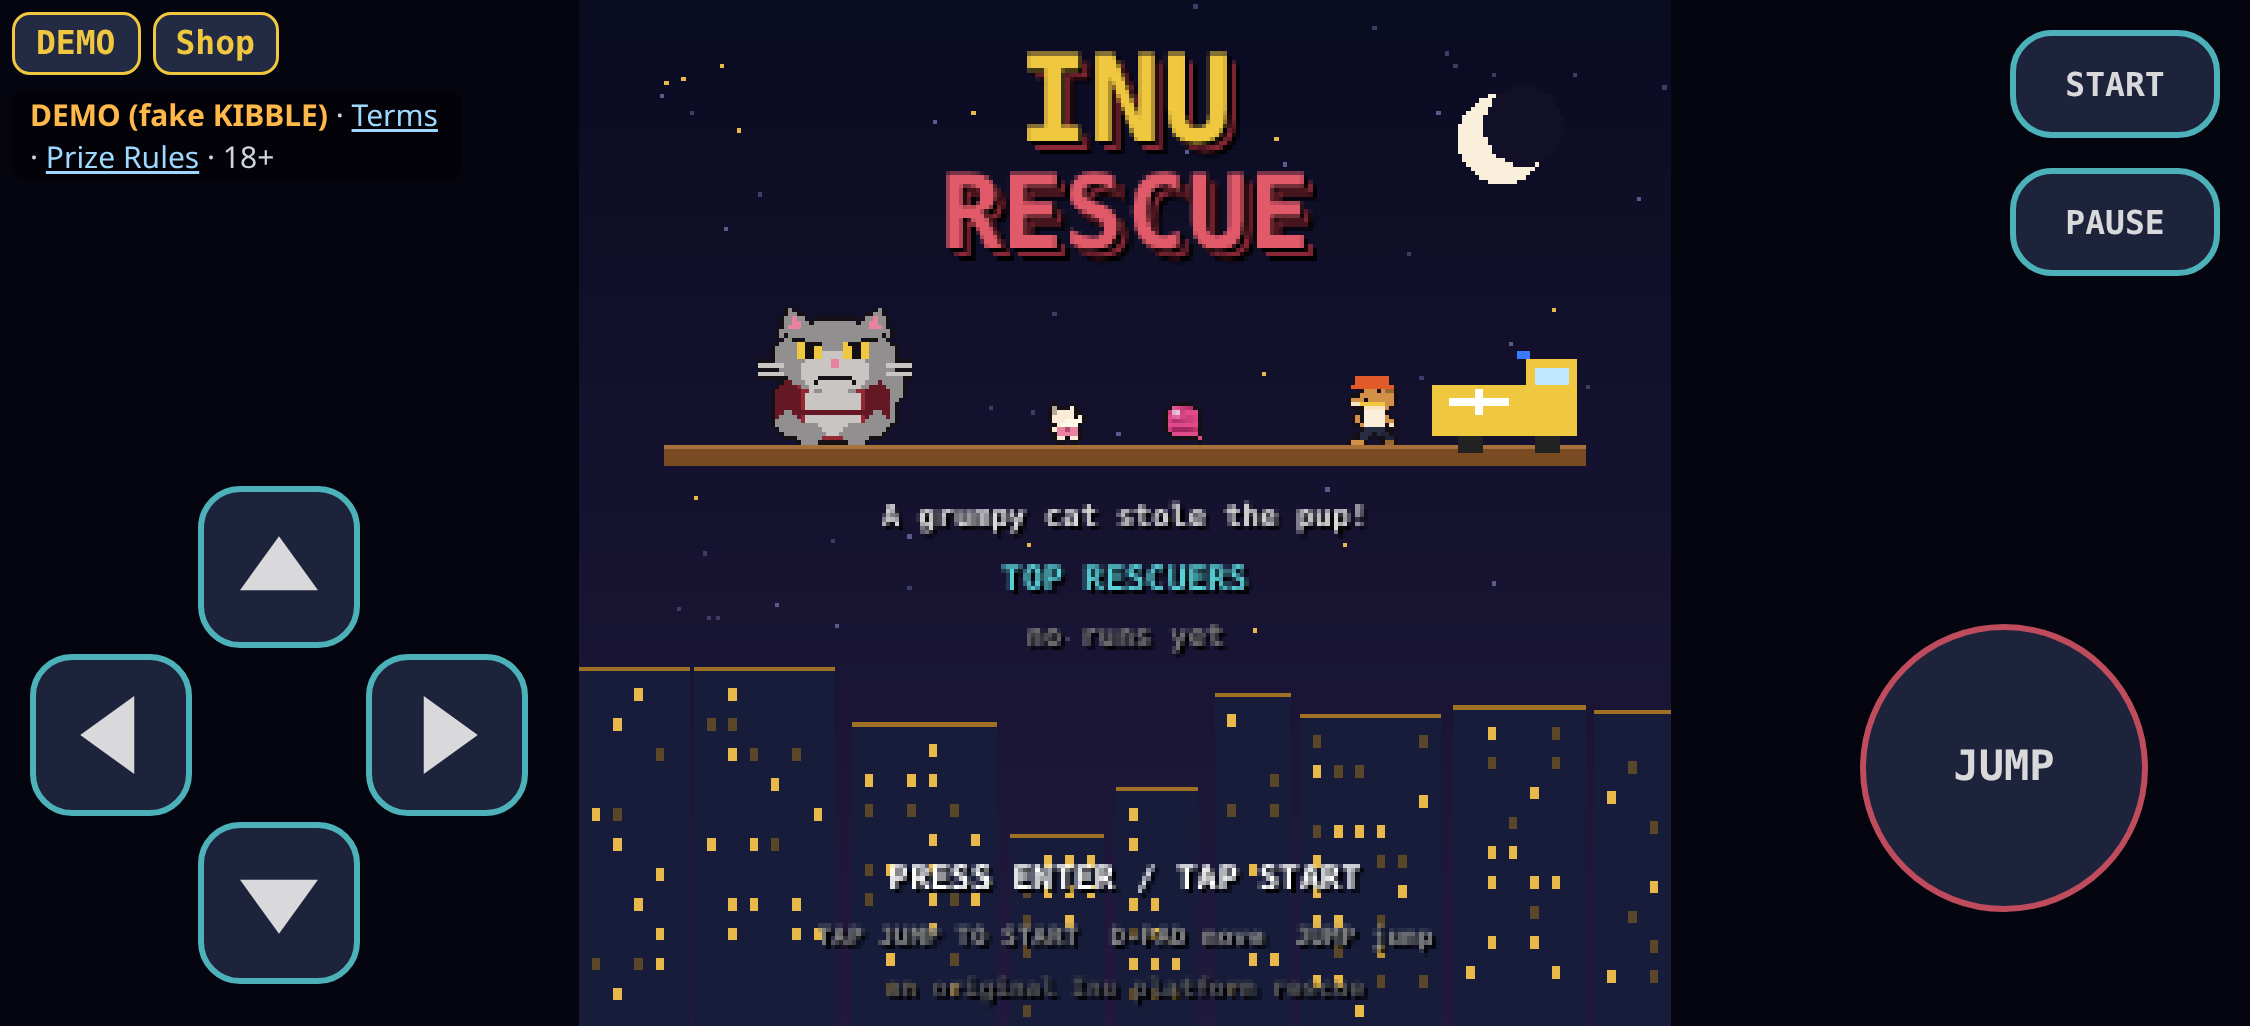
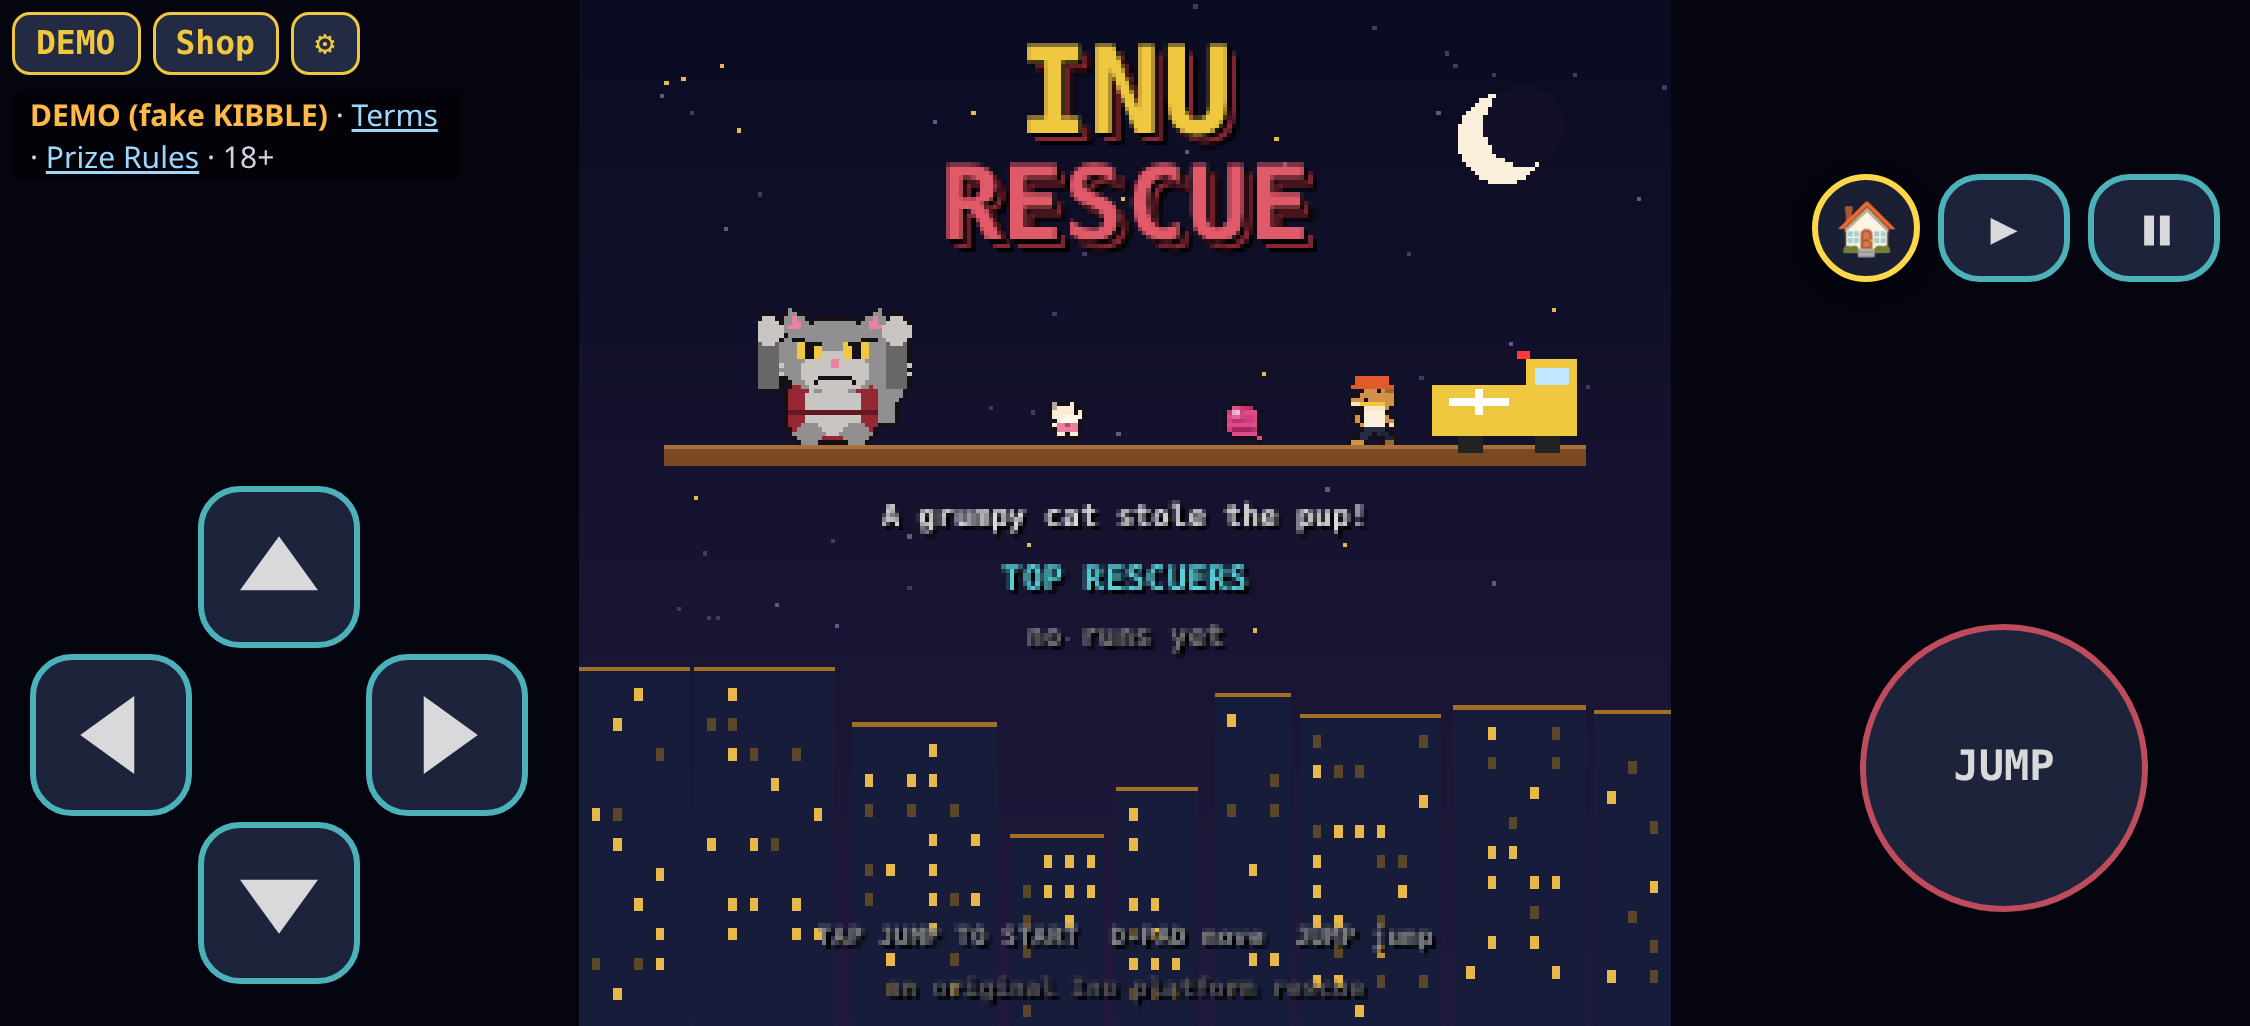
Tidy: sound settings (mute/volume) in ⚙ panel, joystick toggle touch-only; compact right gutter in phone landscape; kibble-proof for live $KIBBLE; deterministic vsync test
- settings: muted/volume fields (defaults unchanged: sound on, 100%), clamped; saved in the same cloud-synced key
- audio: master gain + setVolume; M key now persists mute
- landscape: wallet pill on top, one row with home + START/PAUSE icons, JUMP below (scripts/gutter.mjs: no overlaps at 667x375/750x342/844x390/740x360)
- kibble-proof: live wording, Buy without wallet never pays (desktop prompt / phone Phantom deep link), door wallet != session
- vsync test: seeded mocked clock across 25 seeds + worst case; adds 75/90/120Hz speed guard
- scripts/settings-shot.mjs

diff --git a/src/main.js b/src/main.js
@@ -1,6 +1,6 @@
 import { createGame, step, progress, W, H } from './engine.js';
 import { drawGame, drawTitle, text } from './render.js';
-import { initAudio, play, setMuted, isMuted } from './audio.js';
+import { initAudio, play, setMuted, isMuted, setVolume } from './audio.js';
 import * as KB from './kibble.js';
 import { loadSettings, saveSettings, stickToKeys, knobOffset } from './settings.js';
 import { loadLB, saveLB, addEntry, makeEntry, qualifiesLB, describe, formatTime } from './leaderboard.js';
@@ -27,7 +27,7 @@ addEventListener('keydown', e => {
   if (e.code === 'Space' || e.code === 'KeyZ' || e.code === 'KeyX') { if (!e.repeat) jumpEdge = true; e.preventDefault(); }
   if (e.code === 'Enter') startEdge = true;
   if ((e.code === 'KeyP' || e.code === 'Escape') && app.scene === 'game') app.paused = !app.paused;
-  if (e.code === 'KeyM') setMuted(!isMuted());
+  if (e.code === 'KeyM') setSound({ muted: !isMuted() });
   if (app.scene === 'entry') entryKey(e.code);
 });
 addEventListener('keyup', e => { if (KEYMAP[e.code]) keys[KEYMAP[e.code]] = false; });
@@ -75,7 +75,10 @@ pad.addEventListener('pointerleave', e => { if (!pad.hasPointerCapture?.(e.point
 // JUMP/START/PAUSE buttons work at the same time (multi-touch). The D-pad path above is untouched when it's off.
 const stick = document.getElementById('stick'), knob = stick.querySelector('.knob');
 let settings = loadSettings(localStorage), stickId = null; const stickKeys = { left: false, right: false, up: false, down: false };
-function applySettings() { root.classList.toggle('joy', settings.joystick); const cb = document.getElementById('set-joy'); if (cb) cb.checked = settings.joystick; stickEnd(); }
+function applySettings() { root.classList.toggle('joy', settings.joystick); const $ = id => document.getElementById(id);
+  $('set-joy').checked = settings.joystick; $('set-mute').checked = settings.muted; $('set-vol').value = settings.volume; $('set-vol-v').textContent = settings.volume + '%';
+  setMuted(settings.muted); setVolume(settings.volume / 100); stickEnd(); }
+function setSound(ch) { settings = { ...settings, ...ch }; saveSettings(localStorage, settings); applySettings(); KB.K.walletUi?.save?.(); }
 function stickSet(k) {
   for (const d of ['left', 'right', 'up', 'down']) { if (k[d] === stickKeys[d]) continue; stickKeys[d] = k[d]; keys[d] = k[d];
     if (k[d] && app.scene === 'entry') entryKey({ left: 'ArrowLeft', right: 'ArrowRight', up: 'ArrowUp', down: 'ArrowDown' }[d]); }
@@ -95,6 +98,8 @@ addEventListener('blur', stickEnd); document.addEventListener('visibilitychange'
 const setBox = document.getElementById('settings'); let pausedBySettings = false;
 document.getElementById('k-set').onclick = () => { if (app.scene === 'game' && !app.paused) { app.paused = true; pausedBySettings = true; } applySettings(); setBox.hidden = false; };
 document.getElementById('set-joy').onchange = e => { settings = { ...settings, joystick: e.target.checked }; saveSettings(localStorage, settings); applySettings(); KB.K.walletUi?.save?.(); };
+document.getElementById('set-mute').onchange = e => setSound({ muted: e.target.checked });
+document.getElementById('set-vol').oninput = e => { setSound({ volume: +e.target.value, muted: false }); initAudio(); play('toy'); };
 document.getElementById('set-close').onclick = () => { setBox.hidden = true; if (pausedBySettings) { app.paused = false; pausedBySettings = false; } };
 for (const t of ['pointerdown', 'touchstart']) setBox.addEventListener(t, e => e.stopPropagation(), { passive: true });
 applySettings(); app.settings = () => settings;

diff --git a/src/audio.js b/src/audio.js
@@ -1,16 +1,17 @@
 // Tiny WebAudio sfx synth (no assets).
-let ac = null, muted = false;
-export function initAudio() { try { ac = ac || new (window.AudioContext || window.webkitAudioContext)(); if (ac.state === 'suspended' && !document.hidden) ac.resume(); } catch { ac = null; } } // one context, resumed on gesture
+let ac = null, muted = false, master = null, volume = 1; // master gain = settings volume (0..1)
+export function initAudio() { try { if (!ac) { ac = new (window.AudioContext || window.webkitAudioContext)(); master = ac.createGain(); master.gain.value = volume; master.connect(ac.destination); } if (ac.state === 'suspended' && !document.hidden) ac.resume(); } catch { ac = null; } } // one context, resumed on gesture
 if (typeof document !== 'undefined') { document.addEventListener('visibilitychange', () => { if (!ac) return; if (document.hidden) ac.suspend?.(); else ac.resume?.(); }); addEventListener('pagehide', () => ac?.suspend?.()); }
 // one-shot limiter: per-SFX cooldown + max concurrent voices (events fire per sim step; bursts of the same event must not stack)
 const CD = { land: 0.08, bounce: 0.06, tin: 0.06, flea: 0.08, ladderroll: 0.1, cathop: 0.08, score: 0.05 }, lastAt = {}; let ends = [];
 export const MAX_VOICES = 8;
 export function gate(name, now, cd = CD[name] ?? 0.04, dur = 0.3) { ends = ends.filter((t) => t > now); if (ends.length >= MAX_VOICES || now - (lastAt[name] ?? -1e9) < cd) return false; lastAt[name] = now; ends.push(now + dur); return true; }
-export function setMuted(m) { muted = m; } export function isMuted() { return muted; }
+export function setMuted(m) { muted = !!m; } export function isMuted() { return muted; }
+export function setVolume(v) { volume = Math.max(0, Math.min(1, +v || 0)); if (master) master.gain.value = volume; } export function getVolume() { return volume; }
 function tone(f0, f1, dur, type = 'square', vol = 0.08, delay = 0) {
   if (!ac || muted) return; const t = ac.currentTime + delay, o = ac.createOscillator(), g = ac.createGain();
   o.type = type; o.frequency.setValueAtTime(f0, t); o.frequency.exponentialRampToValueAtTime(Math.max(20, f1), t + dur);
-  g.gain.setValueAtTime(vol, t); g.gain.exponentialRampToValueAtTime(0.001, t + dur); o.connect(g); g.connect(ac.destination); o.start(t); o.stop(t + dur + 0.02);
+  g.gain.setValueAtTime(vol, t); g.gain.exponentialRampToValueAtTime(0.001, t + dur); o.connect(g); g.connect(master || ac.destination); o.start(t); o.stop(t + dur + 0.02);
 }
 const seq = (notes, step = 0.1, type = 'square') => notes.forEach((n, i) => tone(n, n, step * 0.9, type, 0.07, i * step));
 const SFX = {
@@ -23,4 +24,4 @@ const SFX = {
   clank: () => tone(700, 140, 0.14, 'sawtooth', 0.07), split: () => seq([660, 440], 0.05),
   hammerend: () => tone(400, 200, 0.1), checkpoint: () => seq([659, 988], 0.07), ladderroll: () => tone(160, 110, 0.08, 'triangle', 0.04),
 };
-export function play(ev) { const f = SFX[ev]; if (f && ac && !muted && gate(ev, ac.currentTime)) f(); }
+export function play(ev) { const f = SFX[ev]; if (f && ac && !muted && volume > 0 && gate(ev, ac.currentTime)) f(); }

diff --git a/style.css b/style.css
@@ -46,6 +46,15 @@ html.joy #stick{display:block}html.joy .dpad{display:none}
 #settings small{color:#aaa}#settings button{align-self:flex-end;background:#222a44;color:#f0c840;border:1px solid #f0c840;border-radius:6px;padding:5px 12px;font:bold 12px monospace}
 /* phone landscape: the shared wallet pill + home button (kibble-pay) stack in the right gutter, START/PAUSE sit below them
    (they used to cover START, so a START tap hit the home button and left the game) */
+
+/* settings: sound rows everywhere; joystick row only on touch devices (no touch pad on desktop) */
+html.notouch #settings .joyrow{display:none}
+#settings .joyrow{display:flex;flex-direction:column;gap:4px}#settings .vol input{width:120px;height:22px}#settings kbd{color:#888;font-size:10px}
+/* phone landscape, decluttered right gutter: wallet pill on top; one compact row below it with home + START/PAUSE icons; JUMP below */
 @media (orientation:landscape) and (max-height:540px) and ((pointer:coarse) or (hover:none)){
-  #inu-wallet{flex-direction:column!important;align-items:flex-end!important}
-  .mid{top:calc(max(10px,env(safe-area-inset-top)) + 98px)!important;gap:8px!important}}
+  .mid{flex-direction:row!important;top:calc(max(6px,env(safe-area-inset-top)) + 52px)!important;gap:6px!important}
+  .mid .sm{width:44px;height:36px}.mid .sm::after{font-size:15px}
+  .mid [data-k=start]::after{content:"\25B6"}.mid [data-k=pause]::after{content:"\275A\275A";font-size:12px;letter-spacing:-2px}
+  #inu-home{position:fixed!important;top:calc(max(6px,env(safe-area-inset-top)) + 52px)!important;right:calc(max(10px,env(safe-area-inset-right)) + 100px)!important;left:auto!important;
+    width:36px!important;height:36px!important;min-width:0!important;min-height:0!important;padding:0!important;font-size:17px!important;line-height:1!important;box-sizing:border-box!important}}
+html:not(.notouch) #settings kbd{display:none}

diff --git a/src/settings.js b/src/settings.js
@@ -1,14 +1,16 @@
 // Player settings (pure; no DOM). Stored in localStorage under 'inu-rescue.settings', which the kibble-pay wallet cloud save
 // already syncs (mountWallet keys include the 'inu-rescue.' prefix), so it rides along as one extra key in the same save map.
 export const SETTINGS_KEY = 'inu-rescue.settings';
-export const DEFAULTS = Object.freeze({ joystick: false }); // OFF: the classic D-pad stays the default layout
+// joystick OFF: the classic D-pad stays the default layout. Sound defaults match the old behaviour (on, full volume).
+export const DEFAULTS = Object.freeze({ joystick: false, muted: false, volume: 100 });
+const vol = v => (Number.isFinite(+v) && v !== null && v !== '' ? Math.max(0, Math.min(100, Math.round(+v))) : DEFAULTS.volume);
 export function loadSettings(storage) {
-  try { const s = JSON.parse(storage?.getItem(SETTINGS_KEY) || '{}'); return { ...DEFAULTS, joystick: s?.joystick === true }; }
+  try { const s = JSON.parse(storage?.getItem(SETTINGS_KEY) || '{}'); return { ...DEFAULTS, joystick: s?.joystick === true, muted: s?.muted === true, volume: vol(s?.volume ?? DEFAULTS.volume) }; }
   catch { return { ...DEFAULTS }; }
 }
 export function saveSettings(storage, s) {
   let prev = {}; try { prev = JSON.parse(storage.getItem(SETTINGS_KEY) || '{}') || {}; } catch {}
-  try { storage.setItem(SETTINGS_KEY, JSON.stringify({ ...prev, ...s, joystick: !!s.joystick })); } catch {}
+  try { storage.setItem(SETTINGS_KEY, JSON.stringify({ ...prev, ...s, joystick: !!s.joystick, muted: !!s.muted, volume: vol(s.volume ?? DEFAULTS.volume) })); } catch {}
 }
 // Virtual stick -> directional keys. dx/dy = thumb offset from the stick centre (px, +y down), r = stick radius.
 // Dead zone (fraction of r) ignores resting-thumb jitter. Left/right need a clear horizontal lean; up/down (ladders) need a

diff --git a/index.html b/index.html
@@ -9,6 +9,6 @@
   <div class="mid"><div data-k="start" class="btn sm" role="button" aria-label="Start" data-t="START"></div><div data-k="pause" class="btn sm" role="button" aria-label="Pause" data-t="PAUSE"></div></div>
   <div class="act"><div data-k="jump" class="btn big" role="button" aria-label="Jump" data-t="JUMP"></div></div>
 </div></main>
-<div id="settings" hidden><div class="box"><b>SETTINGS</b><label><input type="checkbox" id="set-joy"> Joystick controls</label><small>Left-thumb stick instead of the D-pad (touch screens). Saved on this device and in your wallet save.</small><button id="set-close">Done</button></div></div>
+<div id="settings" hidden><div class="box"><b>SETTINGS</b><label><input type="checkbox" id="set-mute"> Mute sound <kbd>M</kbd></label><label class="vol">Volume <input type="range" id="set-vol" min="0" max="100" step="5"> <span id="set-vol-v"></span></label><div class="joyrow"><label><input type="checkbox" id="set-joy"> Joystick controls</label><small>Left-thumb stick instead of the D-pad.</small></div><small>Saved on this device and in your wallet save.</small><button id="set-close">Done</button></div></div>
 <script type="importmap">{"imports":{"@solana/web3.js":"https://esm.sh/@solana/web3.js@1.98.4"}}</script>
 <script type="module" src="src/main.js"></script></body></html>
